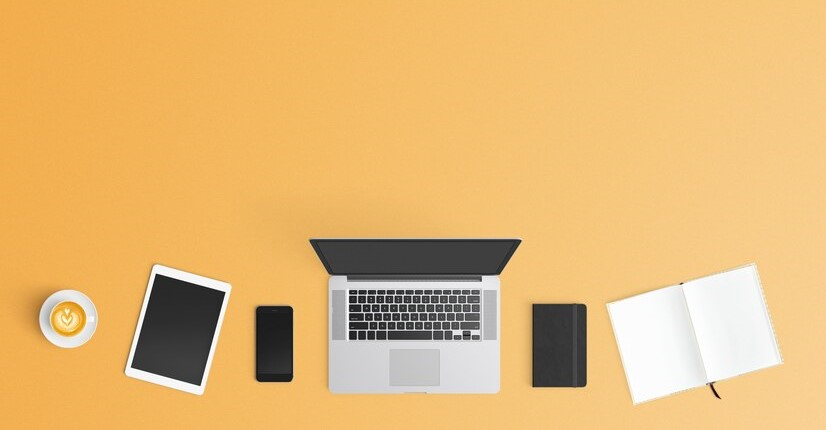
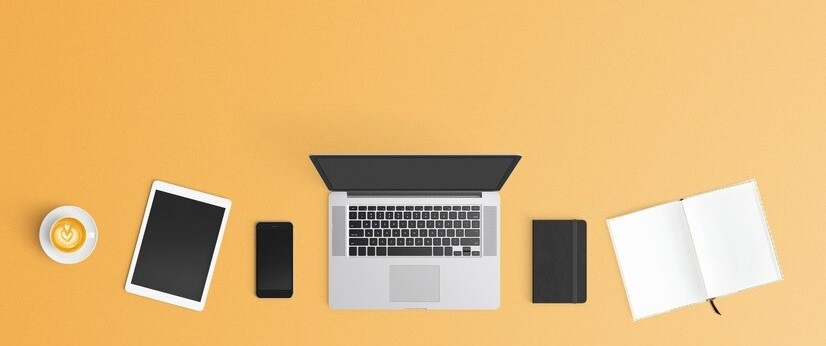
bits

diff --git a/service.html b/service.html
@@ -79,7 +79,7 @@
   
                      <ul class="ul-nav">
                         <li><a class="hover-target" target="_blank" href="https://www.instagram.com/blackitechs/?igshid=OGQ5ZDc2ODk2ZA%3D%3D"><img src="/assets/images/avatars/instagram.png" style="width:100%;" height="20"></a></li>
-                        <li><a class="hover-target" target="_blank" href="https://wa.me/9344025402"><img src="/assets/images/avatars/whatsapp.png" style="width:100%;" height="20"></a></li>
+                        <li><a class="hover-target" target="_blank" href="https://wa.me/8056221146"><img src="/assets/images/avatars/whatsapp.png" style="width:100%;" height="20"></a></li>
                         <li><a class="hover-target" target="_blank" href="https://www.linkedin.com/company/black-i-technologies-and-solutions/mycompany/"><img src="/assets/images/avatars/linkedin (1).png" style="width:100%;" height="20"></a></li>
                         <li><a class="hover-target" target="_blank" href="mailto:blackitechs@gmail.com"><img src="/assets/images/avatars/gmail.png" style="width:100%;" height="20"></a></li>
                     </ul>
@@ -93,7 +93,7 @@
             </nav>
           </header>
 
-        <section class="hero-4 service-banner pt-lg-9 pb-lg-6 pb-md-6 pb-sm-8 bg-light">
+        <section class="hero-4 service-banner pt-lg-9 pb-lg-6 pb-md-6 pb-sm-8" style="background-color: #ffc68c;">
             <div class="container">
                 <div class="row justify-content-center">
                     <div class="col-lg-7 text-center">
@@ -348,7 +348,7 @@
                                 <ul class="pb-3">
                                     <li><a class="hover-target" target="_blank" href="https://www.instagram.com/blackitechs/?igshid=OGQ5ZDc2ODk2ZA%3D%3D"><i class="fab fa-instagram"></i></a></li>
                                     <li><a class="hover-target" target="_blank" href="mailto:blackitechs@gmail.com"><i class="far fa-envelope"></i></a></li>
-                                    <li><a class="hover-target" target="_blank" href="https://wa.me/9344025402"><i class="fab fa-whatsapp"></i></a></li>
+                                    <li><a class="hover-target" target="_blank" href="https://wa.me/8056221146"><i class="fab fa-whatsapp"></i></a></li>
                                     <li><a class="hover-target" target="_blank" href="https://www.linkedin.com/company/black-i-technologies-and-solutions/mycompany/"><i class="fab fa-linkedin-in"></i></a></li>
                                 </ul>
                             </div>

diff --git a/career.html b/career.html
@@ -29,7 +29,7 @@
 </head>
 
 <body>
-    <div class="bg-gradient2 position-relative">
+    <div class=" position-relative" style="background-color: #ffc68c;">
         <header>
             <nav class="navbar navbar-expand-lg topnav-menu navbar-light zindex-10" >
               <div class="container">
@@ -79,7 +79,7 @@
   
                     <ul class="ul-nav">
                         <li><a class="hover-target" target="_blank" href="https://www.instagram.com/blackitechs/?igshid=OGQ5ZDc2ODk2ZA%3D%3D"><img src="/assets/images/avatars/instagram.png" style="width:100%;" height="20"></a></li>
-                        <li><a class="hover-target" target="_blank" href="https://wa.me/9344025402"><img src="/assets/images/avatars/whatsapp.png" style="width:100%;" height="20"></a></li>
+                        <li><a class="hover-target" target="_blank" href="https://wa.me/8056221146"><img src="/assets/images/avatars/whatsapp.png" style="width:100%;" height="20"></a></li>
                         <li><a class="hover-target" target="_blank" href="https://www.linkedin.com/company/black-i-technologies-and-solutions/mycompany/"><img src="/assets/images/avatars/linkedin (1).png" style="width:100%;" height="20"></a></li>
                         <li><a class="hover-target" target="_blank" href="mailto:blackitechs@gmail.com"><img src="/assets/images/avatars/gmail.png" style="width:100%;" height="20"></a></li>
                     </ul>
@@ -410,7 +410,7 @@
                                     <ul class="pb-3">
                                         <li><a class="hover-target" target="_blank" href="https://www.instagram.com/blackitechs/?igshid=OGQ5ZDc2ODk2ZA%3D%3D"><i class="fab fa-instagram"></i></a></li>
                                         <li><a class="hover-target" target="_blank" href="mailto:blackitechs@gmail.com"><i class="far fa-envelope"></i></a></li>
-                                        <li><a class="hover-target" target="_blank" href="https://wa.me/9344025402"><i class="fab fa-whatsapp"></i></a></li>
+                                        <li><a class="hover-target" target="_blank" href="https://wa.me/8056221146"><i class="fab fa-whatsapp"></i></a></li>
                                         <li><a class="hover-target" target="_blank" href="https://www.linkedin.com/company/black-i-technologies-and-solutions/mycompany/"><i class="fab fa-linkedin-in"></i></a></li>
                                     </ul>
                                 </div>

diff --git a/company.html b/company.html
@@ -80,7 +80,7 @@
   
                      <ul class="ul-nav">
                         <li><a class="hover-target" target="_blank" href="https://www.instagram.com/blackitechs/?igshid=OGQ5ZDc2ODk2ZA%3D%3D"><img src="/assets/images/avatars/instagram.png" style="width:100%;" height="20"></a></li>
-                        <li><a class="hover-target" target="_blank" href="https://wa.me/9344025402"><img src="/assets/images/avatars/whatsapp.png" style="width:100%;" height="20"></a></li>
+                        <li><a class="hover-target" target="_blank" href="https://wa.me/8056221146"><img src="/assets/images/avatars/whatsapp.png" style="width:100%;" height="20"></a></li>
                         <li><a class="hover-target" target="_blank" href="https://www.linkedin.com/company/black-i-technologies-and-solutions/mycompany/"><img src="/assets/images/avatars/linkedin (1).png" style="width:100%;" height="20"></a></li>
                         <li><a class="hover-target" target="_blank" href="mailto:blackitechs@gmail.com"><img src="/assets/images/avatars/gmail.png" style="width:100%;" height="20"></a></li>
                     </ul>
@@ -94,7 +94,7 @@
             </nav>
           </header>
     </div>   
-        <section class="position-relative hero-9 ">
+        <section class="position-relative hero-9 " style="background-color: #ffc68c;">
     
             <div class="hero-top">
                 <div class="container">
@@ -556,7 +556,7 @@
                                 <ul class="pb-3">
                                     <li><a class="hover-target" target="_blank" href="https://www.instagram.com/blackitechs/?igshid=OGQ5ZDc2ODk2ZA%3D%3D"><i class="fab fa-instagram"></i></a></li>
                                     <li><a class="hover-target" target="_blank" href="mailto:blackitechs@gmail.com"><i class="far fa-envelope"></i></a></li>
-                                    <li><a class="hover-target" target="_blank" href="https://wa.me/9344025402"><i class="fab fa-whatsapp"></i></a></li>
+                                    <li><a class="hover-target" target="_blank" href="https://wa.me/8056221146"><i class="fab fa-whatsapp"></i></a></li>
                                     <li><a class="hover-target" target="_blank" href="https://www.linkedin.com/company/black-i-technologies-and-solutions/mycompany/"><i class="fab fa-linkedin-in"></i></a></li>
                                 </ul>
                             </div>

diff --git a/contact.html b/contact.html
@@ -80,7 +80,7 @@
   
                      <ul class="ul-nav">
                         <li><a class="hover-target" target="_blank" href="https://www.instagram.com/blackitechs/?igshid=OGQ5ZDc2ODk2ZA%3D%3D"><img src="/assets/images/avatars/instagram.png" style="width:100%;" height="20"></a></li>
-                        <li><a class="hover-target" target="_blank" href="https://wa.me/9344025402"><img src="/assets/images/avatars/whatsapp.png" style="width:100%;" height="20"></a></li>
+                        <li><a class="hover-target" target="_blank" href="https://wa.me/8056221146"><img src="/assets/images/avatars/whatsapp.png" style="width:100%;" height="20"></a></li>
                         <li><a class="hover-target" target="_blank" href="https://www.linkedin.com/company/black-i-technologies-and-solutions/mycompany/"><img src="/assets/images/avatars/linkedin (1).png" style="width:100%;" height="20"></a></li>
                         <li><a class="hover-target" target="_blank" href="mailto:blackitechs@gmail.com"><img src="/assets/images/avatars/gmail.png" style="width:100%;" height="20"></a></li>
                     </ul>
@@ -279,7 +279,7 @@
                                 <ul class="pb-3">
                                     <li><a class="hover-target" target="_blank" href="https://www.instagram.com/blackitechs/?igshid=OGQ5ZDc2ODk2ZA%3D%3D"><i class="fab fa-instagram"></i></a></li>
                                     <li><a class="hover-target" target="_blank" href="mailto:blackitechs@gmail.com"><i class="far fa-envelope"></i></a></li>
-                                    <li><a class="hover-target" target="_blank" href="https://wa.me/9344025402"><i class="fab fa-whatsapp"></i></a></li>
+                                    <li><a class="hover-target" target="_blank" href="https://wa.me/8056221146"><i class="fab fa-whatsapp"></i></a></li>
                                     <li><a class="hover-target" target="_blank" href="https://www.linkedin.com/company/black-i-technologies-and-solutions/mycompany/"><i class="fab fa-linkedin-in"></i></a></li>
                                 </ul>
                             </div>

diff --git a/mob-app.html b/mob-app.html
@@ -80,7 +80,7 @@
   
                      <ul class="ul-nav">
                         <li><a class="hover-target" target="_blank" href="https://www.instagram.com/blackitechs/?igshid=OGQ5ZDc2ODk2ZA%3D%3D"><img src="/assets/images/avatars/instagram.png" style="width:100%;" height="20"></a></li>
-                        <li><a class="hover-target" target="_blank" href="https://wa.me/9344025402"><img src="/assets/images/avatars/whatsapp.png" style="width:100%;" height="20"></a></li>
+                        <li><a class="hover-target" target="_blank" href="https://wa.me/8056221146"><img src="/assets/images/avatars/whatsapp.png" style="width:100%;" height="20"></a></li>
                         <li><a class="hover-target" target="_blank" href="https://www.linkedin.com/company/black-i-technologies-and-solutions/mycompany/"><img src="/assets/images/avatars/linkedin (1).png" style="width:100%;" height="20"></a></li>
                         <li><a class="hover-target" target="_blank" href="mailto:blackitechs@gmail.com"><img src="/assets/images/avatars/gmail.png" style="width:100%;" height="20"></a></li>
                     </ul>
@@ -503,7 +503,7 @@
                                 <ul class="pb-3">
                                     <li><a class="hover-target" target="_blank" href="https://www.instagram.com/blackitechs/?igshid=OGQ5ZDc2ODk2ZA%3D%3D"><i class="fab fa-instagram"></i></a></li>
                                     <li><a class="hover-target" target="_blank" href="mailto:blackitechs@gmail.com"><i class="far fa-envelope"></i></a></li>
-                                    <li><a class="hover-target" target="_blank" href="https://wa.me/9344025402"><i class="fab fa-whatsapp"></i></a></li>
+                                    <li><a class="hover-target" target="_blank" href="https://wa.me/8056221146"><i class="fab fa-whatsapp"></i></a></li>
                                     <li><a class="hover-target" target="_blank" href="https://www.linkedin.com/company/black-i-technologies-and-solutions/mycompany/"><i class="fab fa-linkedin-in"></i></a></li>
                                 </ul>
                             </div>

diff --git a/shopify.html b/shopify.html
@@ -81,7 +81,7 @@
   
                      <ul class="ul-nav">
                         <li><a class="hover-target" target="_blank" href="https://www.instagram.com/blackitechs/?igshid=OGQ5ZDc2ODk2ZA%3D%3D"><img src="/assets/images/avatars/instagram.png" style="width:100%;" height="20"></a></li>
-                        <li><a class="hover-target" target="_blank" href="https://wa.me/9344025402"><img src="/assets/images/avatars/whatsapp.png" style="width:100%;" height="20"></a></li>
+                        <li><a class="hover-target" target="_blank" href="https://wa.me/8056221146"><img src="/assets/images/avatars/whatsapp.png" style="width:100%;" height="20"></a></li>
                         <li><a class="hover-target" target="_blank" href="https://www.linkedin.com/company/black-i-technologies-and-solutions/mycompany/"><img src="/assets/images/avatars/linkedin (1).png" style="width:100%;" height="20"></a></li>
                         <li><a class="hover-target" target="_blank" href="mailto:blackitechs@gmail.com"><img src="/assets/images/avatars/gmail.png" style="width:100%;" height="20"></a></li>
                     </ul>
@@ -367,7 +367,7 @@
                                 <ul class="pb-3">
                                     <li><a class="hover-target" target="_blank" href="https://www.instagram.com/blackitechs/?igshid=OGQ5ZDc2ODk2ZA%3D%3D"><i class="fab fa-instagram"></i></a></li>
                                     <li><a class="hover-target" target="_blank" href="mailto:blackitechs@gmail.com"><i class="far fa-envelope"></i></a></li>
-                                    <li><a class="hover-target" target="_blank" href="https://wa.me/9344025402"><i class="fab fa-whatsapp"></i></a></li>
+                                    <li><a class="hover-target" target="_blank" href="https://wa.me/8056221146"><i class="fab fa-whatsapp"></i></a></li>
                                     <li><a class="hover-target" target="_blank" href="https://www.linkedin.com/company/black-i-technologies-and-solutions/mycompany/"><i class="fab fa-linkedin-in"></i></a></li>
                                 </ul>
                             </div>

diff --git a/software.html b/software.html
@@ -81,7 +81,7 @@
   
                      <ul class="ul-nav">
                         <li><a class="hover-target" target="_blank" href="https://www.instagram.com/blackitechs/?igshid=OGQ5ZDc2ODk2ZA%3D%3D"><img src="/assets/images/avatars/instagram.png" style="width:100%;" height="20"></a></li>
-                        <li><a class="hover-target" target="_blank" href="https://wa.me/9344025402"><img src="/assets/images/avatars/whatsapp.png" style="width:100%;" height="20"></a></li>
+                        <li><a class="hover-target" target="_blank" href="https://wa.me/8056221146"><img src="/assets/images/avatars/whatsapp.png" style="width:100%;" height="20"></a></li>
                         <li><a class="hover-target" target="_blank" href="https://www.linkedin.com/company/black-i-technologies-and-solutions/mycompany/"><img src="/assets/images/avatars/linkedin (1).png" style="width:100%;" height="20"></a></li>
                         <li><a class="hover-target" target="_blank" href="mailto:blackitechs@gmail.com"><img src="/assets/images/avatars/gmail.png" style="width:100%;" height="20"></a></li>
                     </ul>
@@ -468,7 +468,7 @@
                                 <ul class="pb-3">
                                     <li><a class="hover-target" target="_blank" href="https://www.instagram.com/blackitechs/?igshid=OGQ5ZDc2ODk2ZA%3D%3D"><i class="fab fa-instagram"></i></a></li>
                                     <li><a class="hover-target" target="_blank" href="mailto:blackitechs@gmail.com"><i class="far fa-envelope"></i></a></li>
-                                    <li><a class="hover-target" target="_blank" href="https://wa.me/9344025402"><i class="fab fa-whatsapp"></i></a></li>
+                                    <li><a class="hover-target" target="_blank" href="https://wa.me/8056221146"><i class="fab fa-whatsapp"></i></a></li>
                                     <li><a class="hover-target" target="_blank" href="https://www.linkedin.com/company/black-i-technologies-and-solutions/mycompany/"><i class="fab fa-linkedin-in"></i></a></li>
                                 </ul>
                             </div>

diff --git a/wb.html b/wb.html
@@ -80,7 +80,7 @@
   
                      <ul class="ul-nav">
                         <li><a class="hover-target" target="_blank" href="https://www.instagram.com/blackitechs/?igshid=OGQ5ZDc2ODk2ZA%3D%3D"><img src="/assets/images/avatars/instagram.png" style="width:100%;" height="20"></a></li>
-                        <li><a class="hover-target" target="_blank" href="https://wa.me/9344025402"><img src="/assets/images/avatars/whatsapp.png" style="width:100%;" height="20"></a></li>
+                        <li><a class="hover-target" target="_blank" href="https://wa.me/8056221146"><img src="/assets/images/avatars/whatsapp.png" style="width:100%;" height="20"></a></li>
                         <li><a class="hover-target" target="_blank" href="https://www.linkedin.com/company/black-i-technologies-and-solutions/mycompany/"><img src="/assets/images/avatars/linkedin (1).png" style="width:100%;" height="20"></a></li>
                         <li><a class="hover-target" target="_blank" href="mailto:blackitechs@gmail.com"><img src="/assets/images/avatars/gmail.png" style="width:100%;" height="20"></a></li>
                     </ul>
@@ -526,7 +526,7 @@
                                 <ul class="pb-3">
                                     <li><a class="hover-target" target="_blank" href="https://www.instagram.com/blackitechs/?igshid=OGQ5ZDc2ODk2ZA%3D%3D"><i class="fab fa-instagram"></i></a></li>
                                     <li><a class="hover-target" target="_blank" href="mailto:blackitechs@gmail.com"><i class="far fa-envelope"></i></a></li>
-                                    <li><a class="hover-target" target="_blank" href="https://wa.me/9344025402"><i class="fab fa-whatsapp"></i></a></li>
+                                    <li><a class="hover-target" target="_blank" href="https://wa.me/8056221146"><i class="fab fa-whatsapp"></i></a></li>
                                     <li><a class="hover-target" target="_blank" href="https://www.linkedin.com/company/black-i-technologies-and-solutions/mycompany/"><i class="fab fa-linkedin-in"></i></a></li>
                                 </ul>
                             </div>

diff --git a/index.html b/index.html
@@ -80,7 +80,7 @@
   
                     <ul class="ul-nav">
                         <li><a class="hover-target" target="_blank" href="https://www.instagram.com/blackitechs/?igshid=OGQ5ZDc2ODk2ZA%3D%3D"><img src="/assets/images/avatars/instagram.png" style="width:100%;" height="20"></a></li>
-                        <li><a class="hover-target" target="_blank" href="https://wa.me/9344025402"><img src="/assets/images/avatars/whatsapp.png" style="width:100%;" height="20"></a></li>
+                        <li><a class="hover-target" target="_blank" href="https://wa.me/8056221146"><img src="/assets/images/avatars/whatsapp.png" style="width:100%;" height="20"></a></li>
                         <li><a class="hover-target" target="_blank" href="https://www.linkedin.com/company/black-i-technologies-and-solutions/mycompany/"><img src="/assets/images/avatars/linkedin (1).png" style="width:100%;" height="20"></a></li>
                         <li><a class="hover-target" target="_blank" href="mailto:blackitechs@gmail.com"><img src="/assets/images/avatars/gmail.png" style="width:100%;" height="20"></a></li>
                     </ul>
@@ -512,7 +512,7 @@
                                 <ul class="pb-3">
                                     <li><a class="hover-target" target="_blank" href="https://www.instagram.com/blackitechs/?igshid=OGQ5ZDc2ODk2ZA%3D%3D"><i class="fab fa-instagram"></i></a></li>
                                     <li><a class="hover-target" target="_blank" href="mailto:blackitechs@gmail.com"><i class="far fa-envelope"></i></a></li>
-                                    <li><a class="hover-target" target="_blank" href="https://wa.me/9344025402"><i class="fab fa-whatsapp"></i></a></li>
+                                    <li><a class="hover-target" target="_blank" href="https://wa.me/8056221146"><i class="fab fa-whatsapp"></i></a></li>
                                     <li><a class="hover-target" target="_blank" href="https://www.linkedin.com/company/black-i-technologies-and-solutions/mycompany/"><i class="fab fa-linkedin-in"></i></a></li>
                                 </ul>
                             </div>

diff --git a/web-app.html b/web-app.html
@@ -81,7 +81,7 @@
 
                 <ul class="ul-nav">
                     <li><a class="hover-target" target="_blank" href="https://www.instagram.com/blackitechs/?igshid=OGQ5ZDc2ODk2ZA%3D%3D"><img src="/assets/images/avatars/instagram.png" style="width:100%;" height="20"></a></li>
-                    <li><a class="hover-target" target="_blank" href="https://wa.me/9344025402"><img src="/assets/images/avatars/whatsapp.png" style="width:100%;" height="20"></a></li>
+                    <li><a class="hover-target" target="_blank" href="https://wa.me/8056221146"><img src="/assets/images/avatars/whatsapp.png" style="width:100%;" height="20"></a></li>
                     <li><a class="hover-target" target="_blank" href="https://www.linkedin.com/company/black-i-technologies-and-solutions/mycompany/"><img src="/assets/images/avatars/linkedin (1).png" style="width:100%;" height="20"></a></li>
                     <li><a class="hover-target" target="_blank" href="mailto:blackitechs@gmail.com"><img src="/assets/images/avatars/gmail.png" style="width:100%;" height="20"></a></li>
                 </ul>
@@ -584,7 +584,7 @@
                                 <ul class="pb-3">
                                     <li><a class="hover-target" target="_blank" href="https://www.instagram.com/blackitechs/?igshid=OGQ5ZDc2ODk2ZA%3D%3D"><i class="fab fa-instagram"></i></a></li>
                                     <li><a class="hover-target" target="_blank" href="mailto:blackitechs@gmail.com"><i class="far fa-envelope"></i></a></li>
-                                    <li><a class="hover-target" target="_blank" href="https://wa.me/9344025402"><i class="fab fa-whatsapp"></i></a></li>
+                                    <li><a class="hover-target" target="_blank" href="https://wa.me/8056221146"><i class="fab fa-whatsapp"></i></a></li>
                                     <li><a class="hover-target" target="_blank" href="https://www.linkedin.com/company/black-i-technologies-and-solutions/mycompany/"><i class="fab fa-linkedin-in"></i></a></li>
                                 </ul>
                             </div>

diff --git a/custom.html b/custom.html
@@ -80,7 +80,7 @@
 
                 <ul class="ul-nav">
                     <li><a class="hover-target" target="_blank" href="https://www.instagram.com/blackitechs/?igshid=OGQ5ZDc2ODk2ZA%3D%3D"><img src="/assets/images/avatars/instagram.png" style="width:100%;" height="20"></a></li>
-                    <li><a class="hover-target" target="_blank" href="https://wa.me/9344025402"><img src="/assets/images/avatars/whatsapp.png" style="width:100%;" height="20"></a></li>
+                    <li><a class="hover-target" target="_blank" href="https://wa.me/8056221146"><img src="/assets/images/avatars/whatsapp.png" style="width:100%;" height="20"></a></li>
                     <li><a class="hover-target" target="_blank" href="https://www.linkedin.com/company/black-i-technologies-and-solutions/mycompany/"><img src="/assets/images/avatars/linkedin (1).png" style="width:100%;" height="20"></a></li>
                     <li><a class="hover-target" target="_blank" href="mailto:blackitechs@gmail.com"><img src="/assets/images/avatars/gmail.png" style="width:100%;" height="20"></a></li>
                 </ul>
@@ -461,7 +461,7 @@
                             <ul class="pb-3">
                                 <li><a class="hover-target" target="_blank" href="https://www.instagram.com/blackitechs/?igshid=OGQ5ZDc2ODk2ZA%3D%3D"><i class="fab fa-instagram"></i></a></li>
                                 <li><a class="hover-target" target="_blank" href="mailto:blackitechs@gmail.com"><i class="far fa-envelope"></i></a></li>
-                                <li><a class="hover-target" target="_blank" href="https://wa.me/9344025402"><i class="fab fa-whatsapp"></i></a></li>
+                                <li><a class="hover-target" target="_blank" href="https://wa.me/8056221146"><i class="fab fa-whatsapp"></i></a></li>
                                 <li><a class="hover-target" target="_blank" href="https://www.linkedin.com/company/black-i-technologies-and-solutions/mycompany/"><i class="fab fa-linkedin-in"></i></a></li>
                             </ul>
                         </div>

diff --git a/assets/css/theme.css b/assets/css/theme.css
@@ -10681,7 +10681,7 @@ textarea.form-control-lg {
 .bg-gradient2 {
   background: linear-gradient(#f3f4f7 0%, #f4f5f7 100%) no-repeat left center; }
 .bg-gradient2-orange{
-  background-color: #ff8100bd;
+  background-color: #ffc68c;
 }
 .bg-gradient3 {
   background: linear-gradient(#f4f5f7 0, #fafafb 100%); }
